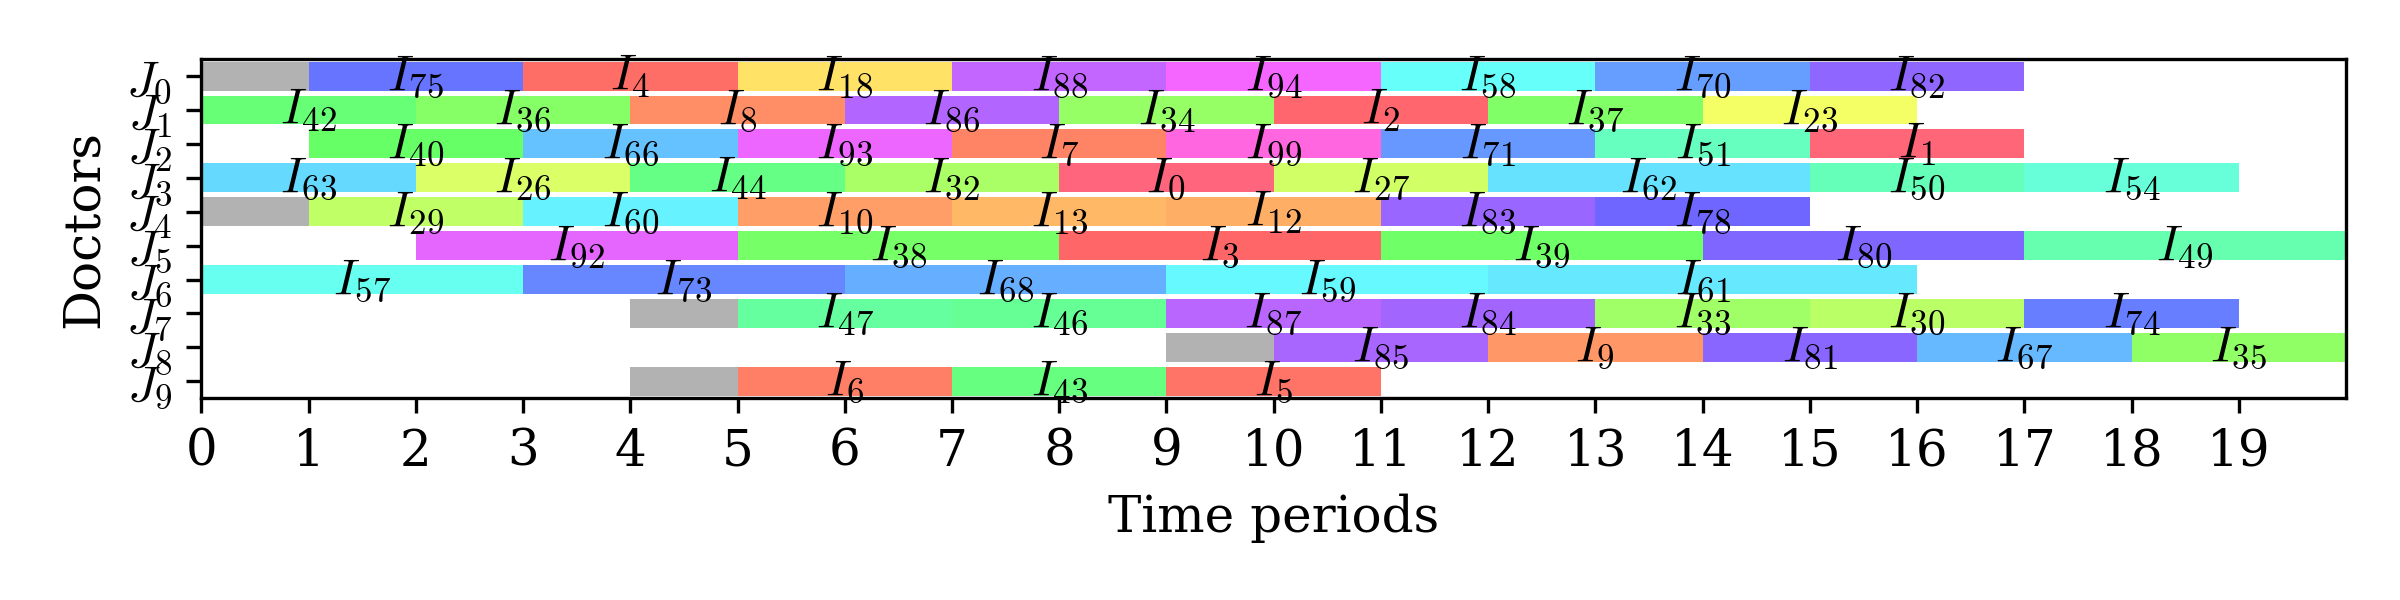
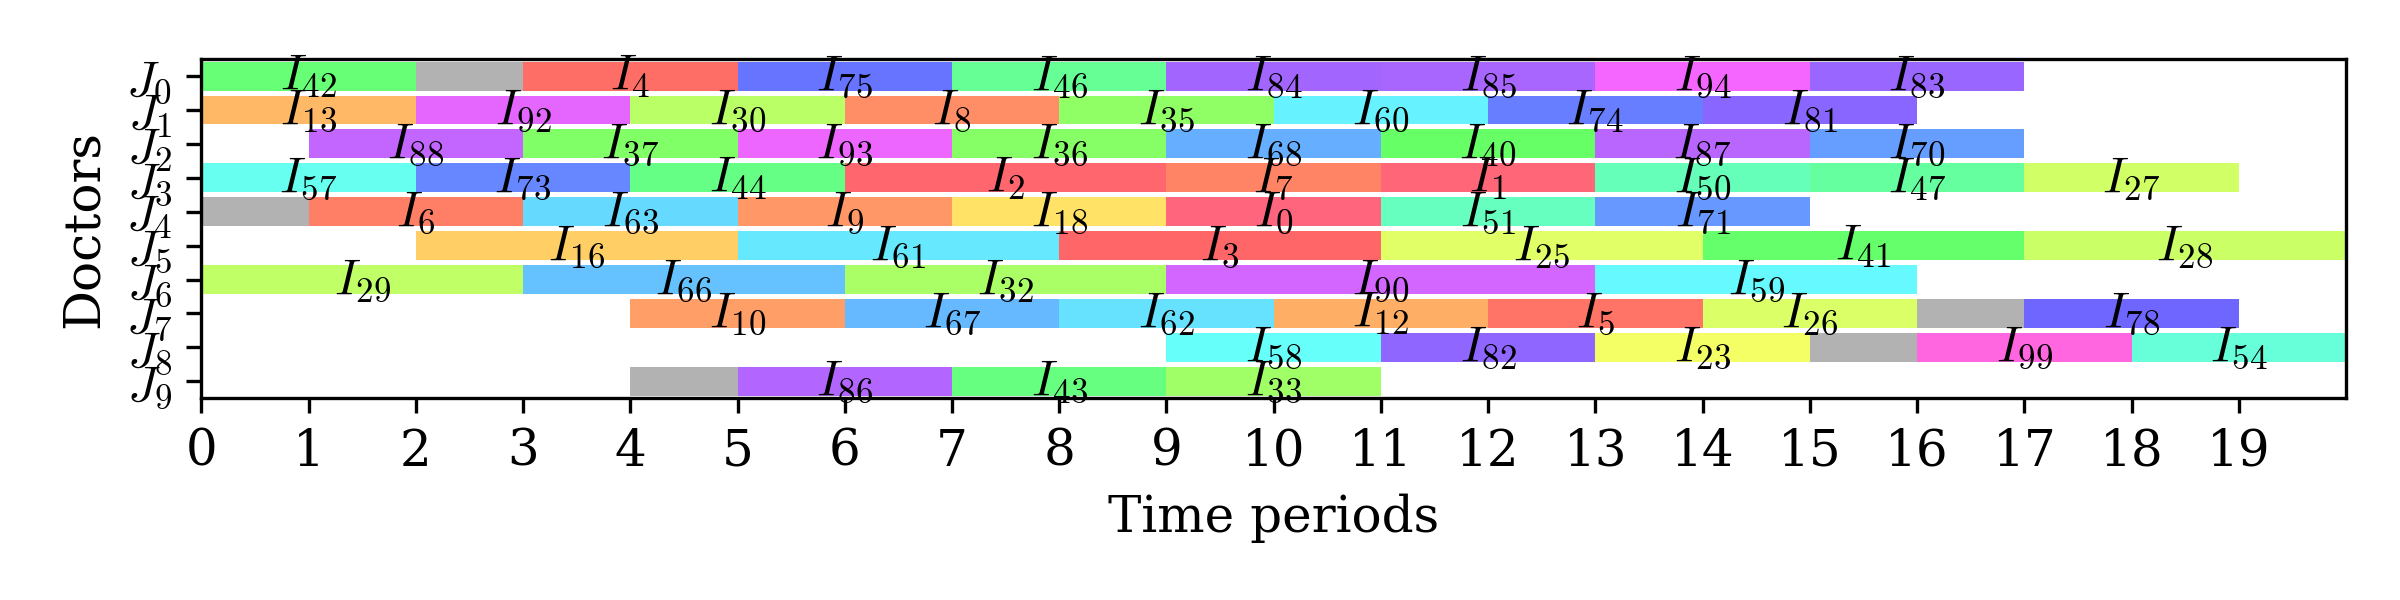
combined and updated creating schedule

Changed region(s): [[0.0625, 0.09, 1.0, 0.66], [0.2812, 0.6, 0.4062, 0.66]]

diff --git a/src/utils/logging_results.py b/src/utils/logging_results.py
@@ -14,12 +14,29 @@ def left_pad_string(s, length):
         return s
     return " " * (length - len(s)) + s 
 
-def create_schedule(model_type, Ys, K, J, I_k, T, treat):
-    schedule = []
-    for j in J:
-        doctor_schedule = [int(patient - 1) for patient in [sum((Ys[i,j,tt] * (i + 1)) for k in K for i in I_k[k] for tt in T[max(0, t - treat[j][k] + 1):t+1]) for t in T]]
-        schedule.append(doctor_schedule)
-    return schedule
+def create_schedule(model_type, Ys=None, Z=None, S=None, I=None, J=None, K=None, I_k=None, T=None, treat=None, patient_diseases=None):
+    if (model_type == 0):
+        schedule = []
+        for j in J:
+            doctor_schedule = [int(patient - 1) for patient in [sum((Ys[i,j,tt] * (i + 1)) for k in K for i in I_k[k] for tt in T[max(0, t - treat[j][k] + 1):t+1]) for t in T]]
+            schedule.append(doctor_schedule)
+        return schedule
+    elif (model_type == 1):
+        schedule = []
+        for j in J:
+            chosen_s = None
+            for s in S[j]:
+                if Z[j, s].X > 0.5:
+                    chosen_s = s
+                    break
+            if chosen_s is None:
+                doctor_schedule = [-1 for _ in T]
+            else:
+                _, Y_values = S[j][chosen_s]
+                doctor_schedule = expand_schedule(Y_values, j, T, treat, patient_diseases)
+            schedule.append(doctor_schedule)
+        return schedule
+
 
 def print_stats(Ys, M1, I, J, K, T, I_k, allocate_rank, qualified, doctor_rank, patient_available, patient_time_prefs):
     numberAvailableDoctors = [sum(allocate_rank[i][jj] != M1 for jj in J) for i in I]
@@ -70,37 +87,6 @@ def expand_schedule(Y_values, doctor, T, treat, patient_diseases):
             if tt < len(T):
                 timeline[tt] = i
     return timeline
-
-def create_schedule_from_Z(Z, S, J, T, treat, patient_diseases):
-    schedule = []
-    for j in J:
-        chosen_s = None
-        for s in S[j]:
-            if Z[j, s].X > 0.5:
-                chosen_s = s
-                break
-        if chosen_s is None:
-            doctor_schedule = [-1 for _ in T]
-        else:
-            _, Y_values = S[j][chosen_s]
-            doctor_schedule = expand_schedule(Y_values, j, T, treat, patient_diseases)
-        schedule.append(doctor_schedule)
-    return schedule
-
-def print_schedule_from_Z(schedule, I, J, T, doctor_times):
-    padding = len(str(len(I)))
-    print("time:     " + " ".join([left_pad_string(str(t), padding) for t in T]))
-    for j, doctor_schedule in zip(J, schedule):
-        formatted = []
-        for t, patient in enumerate(doctor_schedule):
-            if patient == -1:
-                s_val = "-"
-            else:
-                s_val = str(patient)
-            if not doctor_times[j][t]:
-                s_val = " "
-            formatted.append(left_pad_string(s_val, padding))
-        print("doctor:", j, " ".join(formatted))
 
 def plot_schedule(schedule, I, J, T, doctor_times, path):
     fig, ax = plt.subplots(figsize=(8, 2))
@@ -195,16 +181,16 @@ def parse_presolve_log(m, logfile="outputs/logs/gurobi_presolve.log"):
     return presolve_info
 
 
-def optimise_and_print_schedule(model_type, m, M1, Y, I, J, K, T, I_k, treat, allocate_rank, qualified, doctor_rank, patient_available, patient_time_prefs, doctor_times):
+def optimise_and_print_schedule(model_type, m, M1, Y, Z, S, I, J, K, T, I_k, treat, allocate_rank, qualified, doctor_rank, patient_available, patient_time_prefs, doctor_times, patient_diseases):
     m.optimize()
     Yvals = {key: Y[key].x for key in Y}
     Ys = {(i,j,t): Yvals.get((i,j,t), 0) for i in I for j in J for t in T}
-    schedule = create_schedule(model_type, Ys, K, J, I_k, T, treat)
+    schedule = create_schedule(model_type, Ys, Z, S, I, J, K, I_k, T, treat, patient_diseases)
     print_stats(Ys, M1, I, J, K, T, I_k, allocate_rank, qualified, doctor_rank, patient_available, patient_time_prefs)
     print_schedule(model_type, schedule, I, J, T, doctor_times)
     plot_schedule(schedule, I, J, T, doctor_times, path="plot.png")
 
-def optimise_and_collect(objective_name, m, Y, M1, I, J, K, T, I_k, treat, allocate_rank, qualified, doctor_rank, patient_available, patient_time_prefs):
+def optimise_and_collect(model_type, objective_name, m, Y, Z, S, M1, I, J, K, T, I_k, treat, allocate_rank, qualified, doctor_rank, patient_available, patient_time_prefs, patient_diseases):
     start_obj_time = time.time()
     m.optimize()
     end_obj_time = time.time()
@@ -215,7 +201,7 @@ def optimise_and_collect(objective_name, m, Y, M1, I, J, K, T, I_k, treat, alloc
     Ys = {(i,j,t): Yvals.get((i,j,t), 0) for i in I for j in J for t in T}
 
     # Build schedule
-    schedule = create_schedule(Ys, K, J, I_k, T, treat)
+    schedule = create_schedule(model_type, Ys, Z, S, I, J, K, I_k, T, treat, patient_diseases)
 
     # Collect stats
     numberAvailableDoctors = [sum(allocate_rank[i][jj] != M1 for jj in J) for i in I]

diff --git a/src/main.py b/src/main.py
@@ -49,8 +49,13 @@ for seed in seeds:
 
     # choose model(s) --> run model(s)
     if (model not in ["1", "2", "3"]):
+        # for optimise and print
+        Y = None
         break
     else:
+        # for optimise and print
+        Z = None
+        S = None
         if (model == "1"):
             m, Y, [objective_0, objective_1, objective_2], _ = make_feasibility_model(data)
         elif (model == "2"):
@@ -73,7 +78,7 @@ for seed in seeds:
 
     # (check whether a data or output file already exists)
     m.setParam("OutputFlag", 1)
-    optimise_and_print_schedule(model_type, m, M1, Y, I, J, K, T, I_k, treat, allocate_rank, qualified, doctor_rank, patient_available, patient_time_prefs, doctor_times)
+    optimise_and_print_schedule(model_type, m, M1, Y, Z, S, I, J, K, T, I_k, treat, allocate_rank, qualified, doctor_rank, patient_available, patient_time_prefs, doctor_times, patient_diseases)
     
 
 # create summary tables or comparison plots
